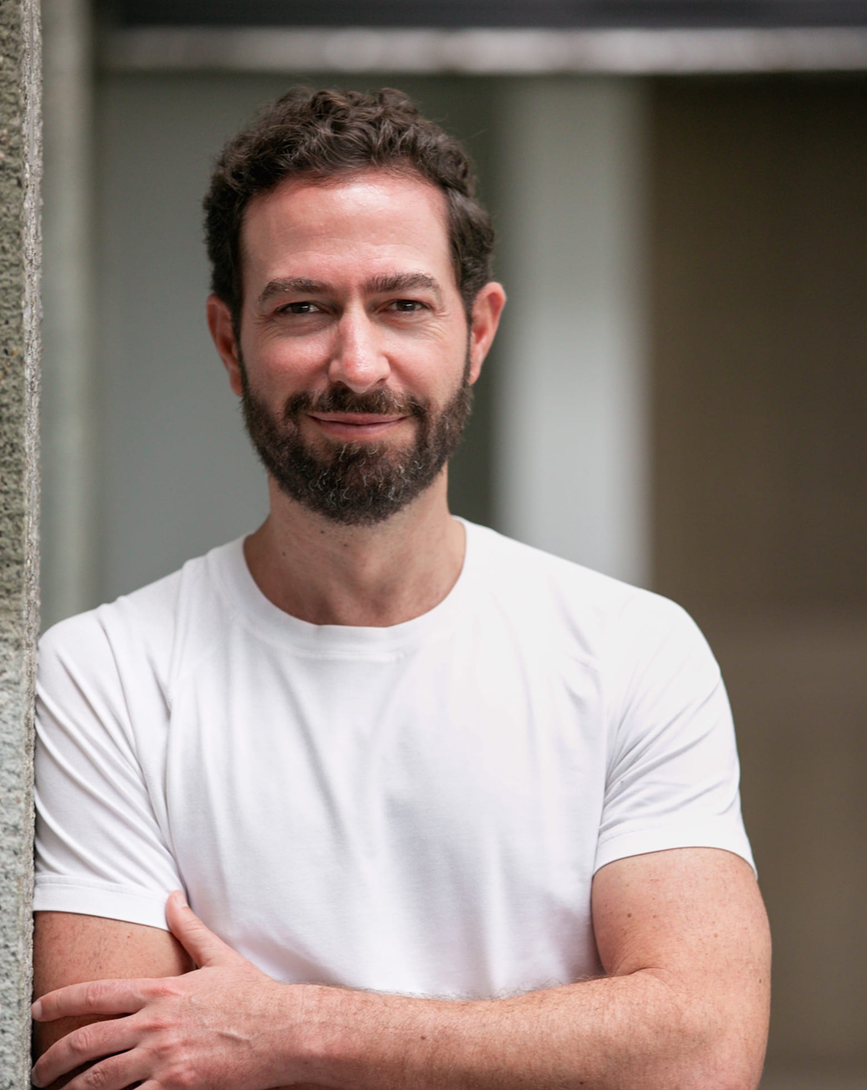
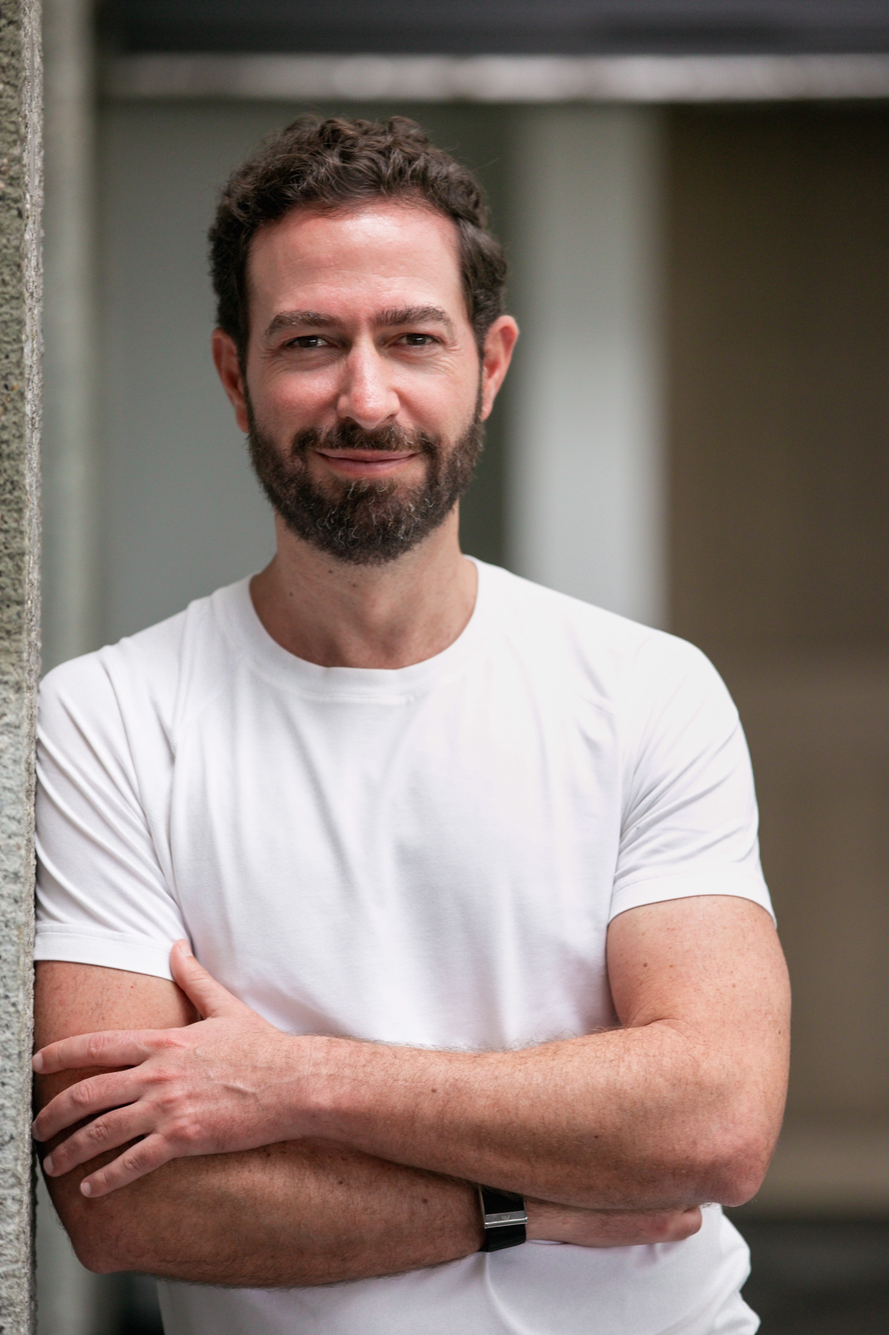
Worker arranca y la foto del hero vuelve a la del Figma
- worker/index.js: quita export { ALIAS, CANONICO }. workerd solo acepta handlers en el
  módulo principal; con esos exports el Worker no arranca ('Incorrect type for map entry').
- Retrato del hero: la foto del Figma (la misma que estaba en producción), no la nueva.

Claude-Session: https://claude.ai/code/session_013JZ692QMnBXWpRhQzKzmGR

diff --git a/worker/index.js b/worker/index.js
@@ -2,9 +2,9 @@
 // Las URLs *.workers.dev (previews) y localhost se sirven en el mismo host.
 // Las redirecciones SEO del WordPress viven aquí porque public/_redirects
 // no se aplica con run_worker_first + ASSETS.fetch en este Worker.
-import { ALIAS, CANONICO, resolveRedirect } from './redirects.js';
-
-export { ALIAS, CANONICO };
+// Solo el handler por defecto: workerd rechaza otros exports en el módulo principal
+// ("Incorrect type for map entry") y el Worker no arranca.
+import { resolveRedirect } from './redirects.js';
 
 export default {
   async fetch(request, env) {
